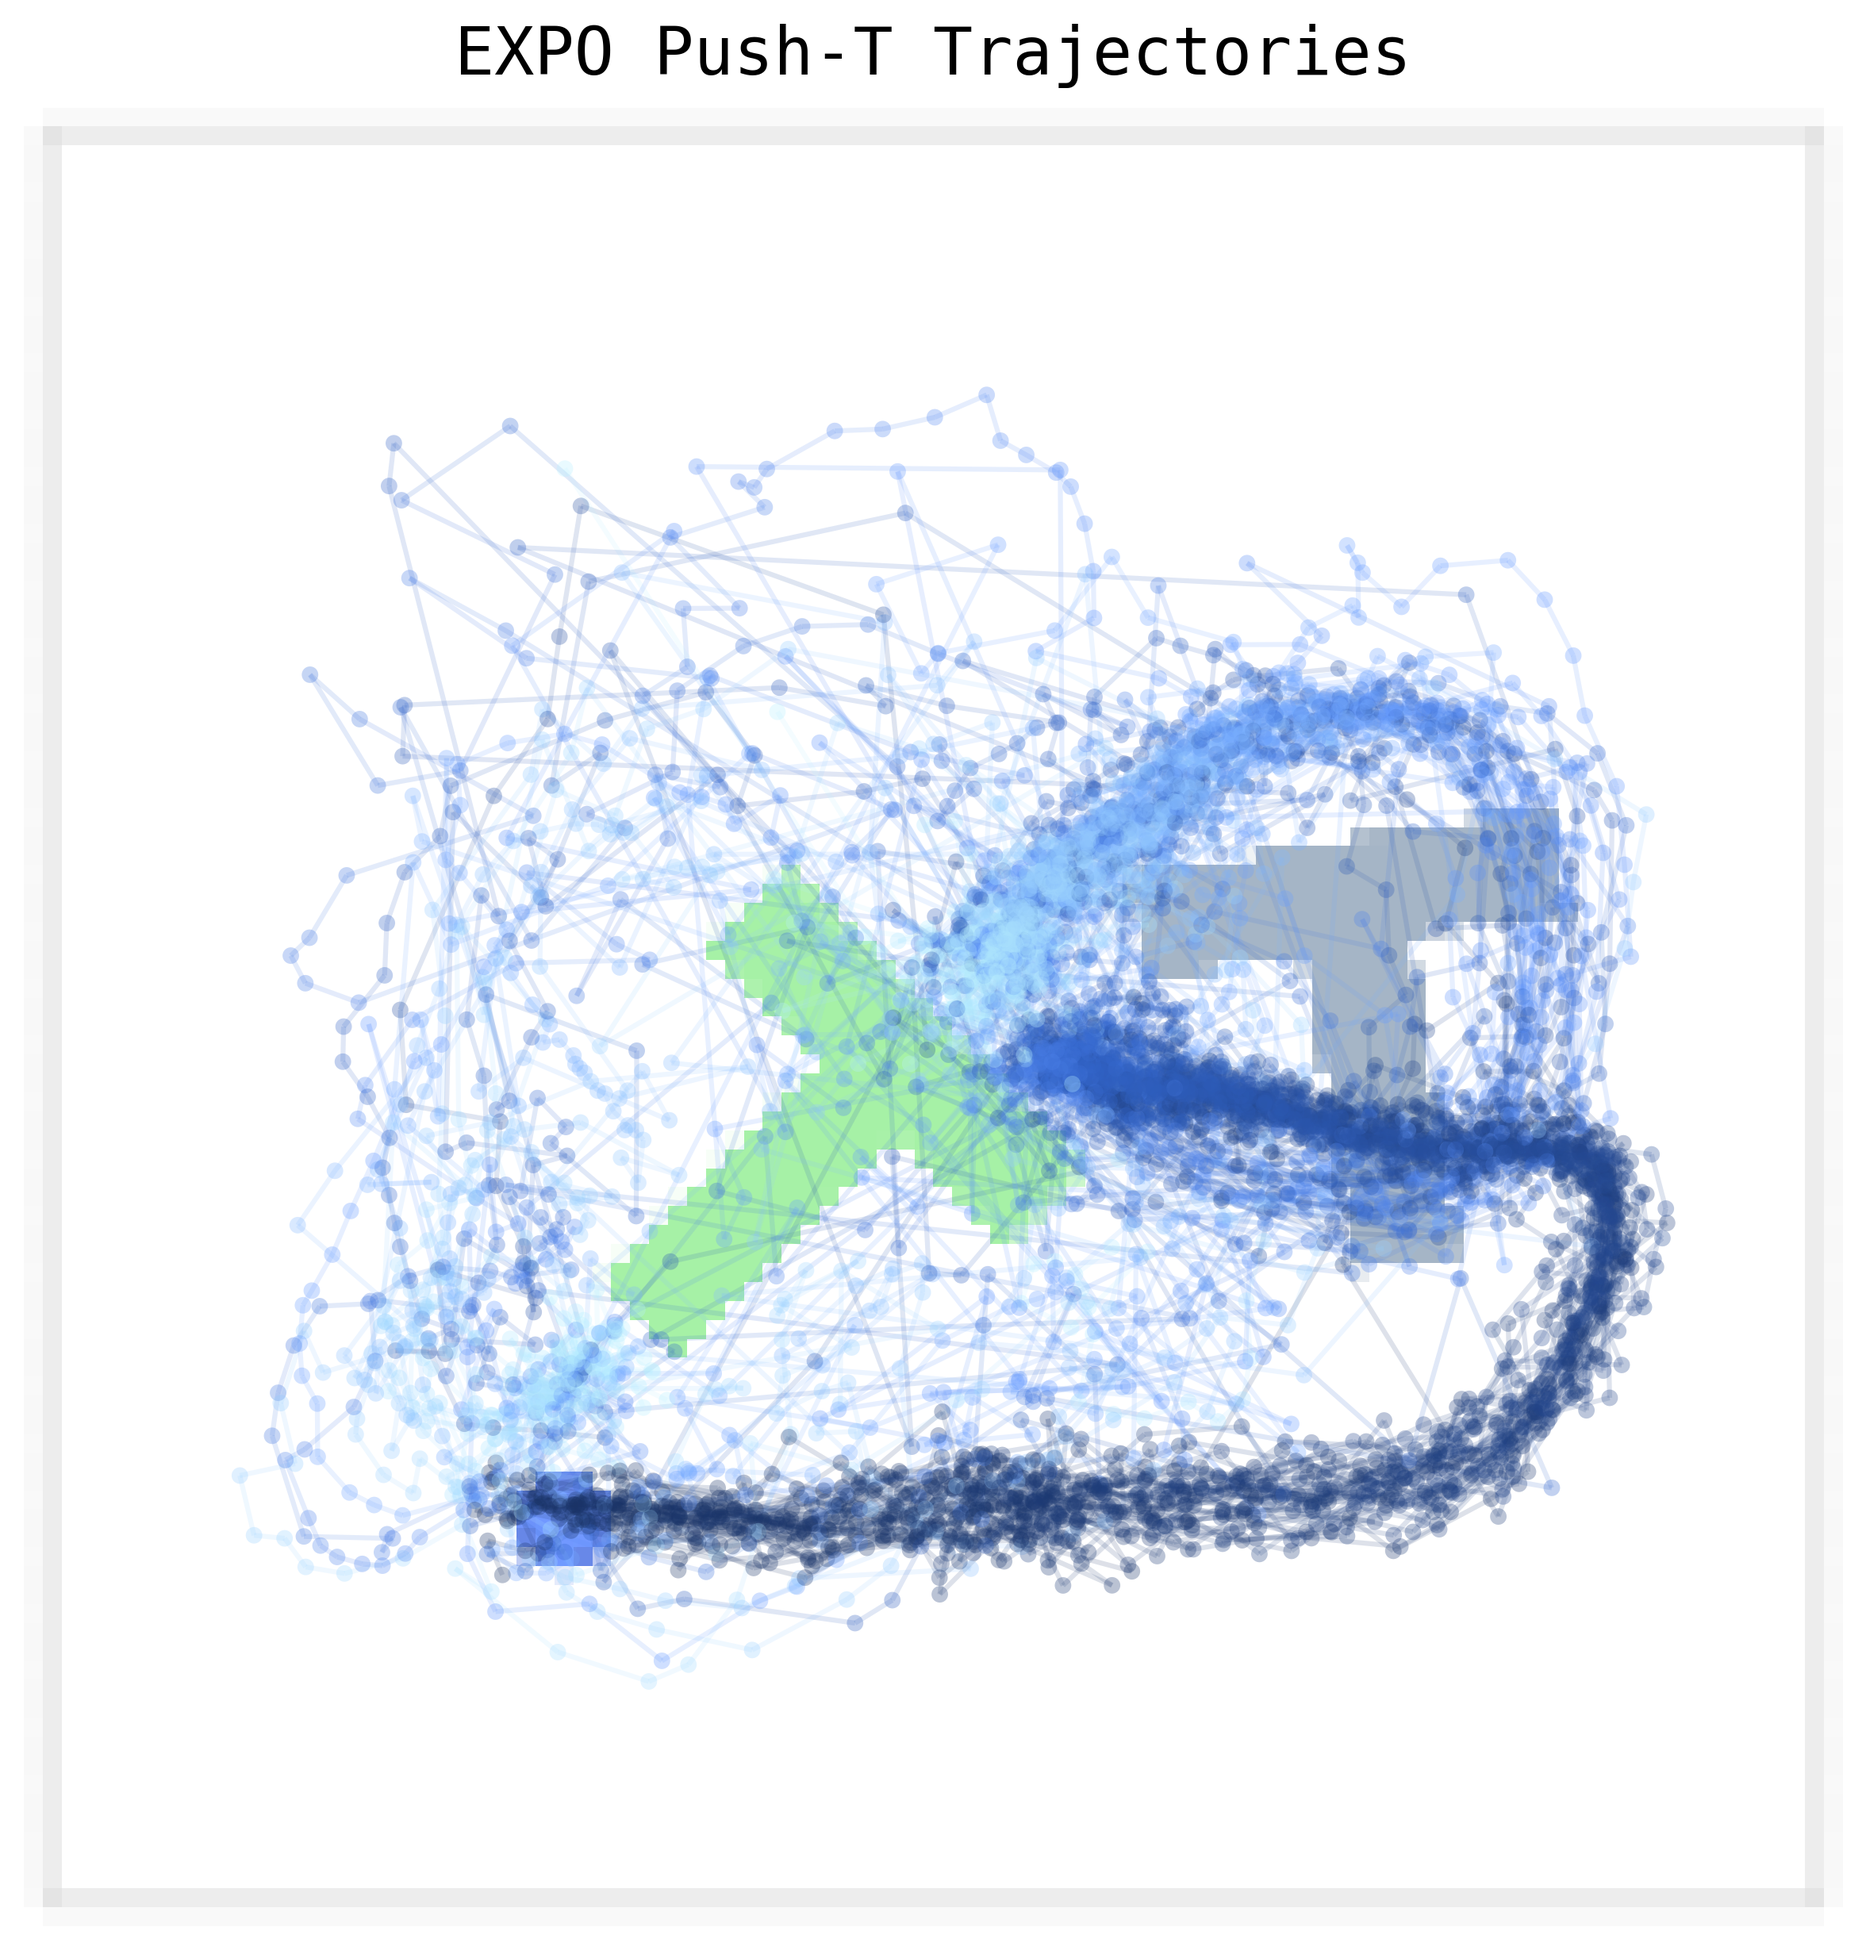
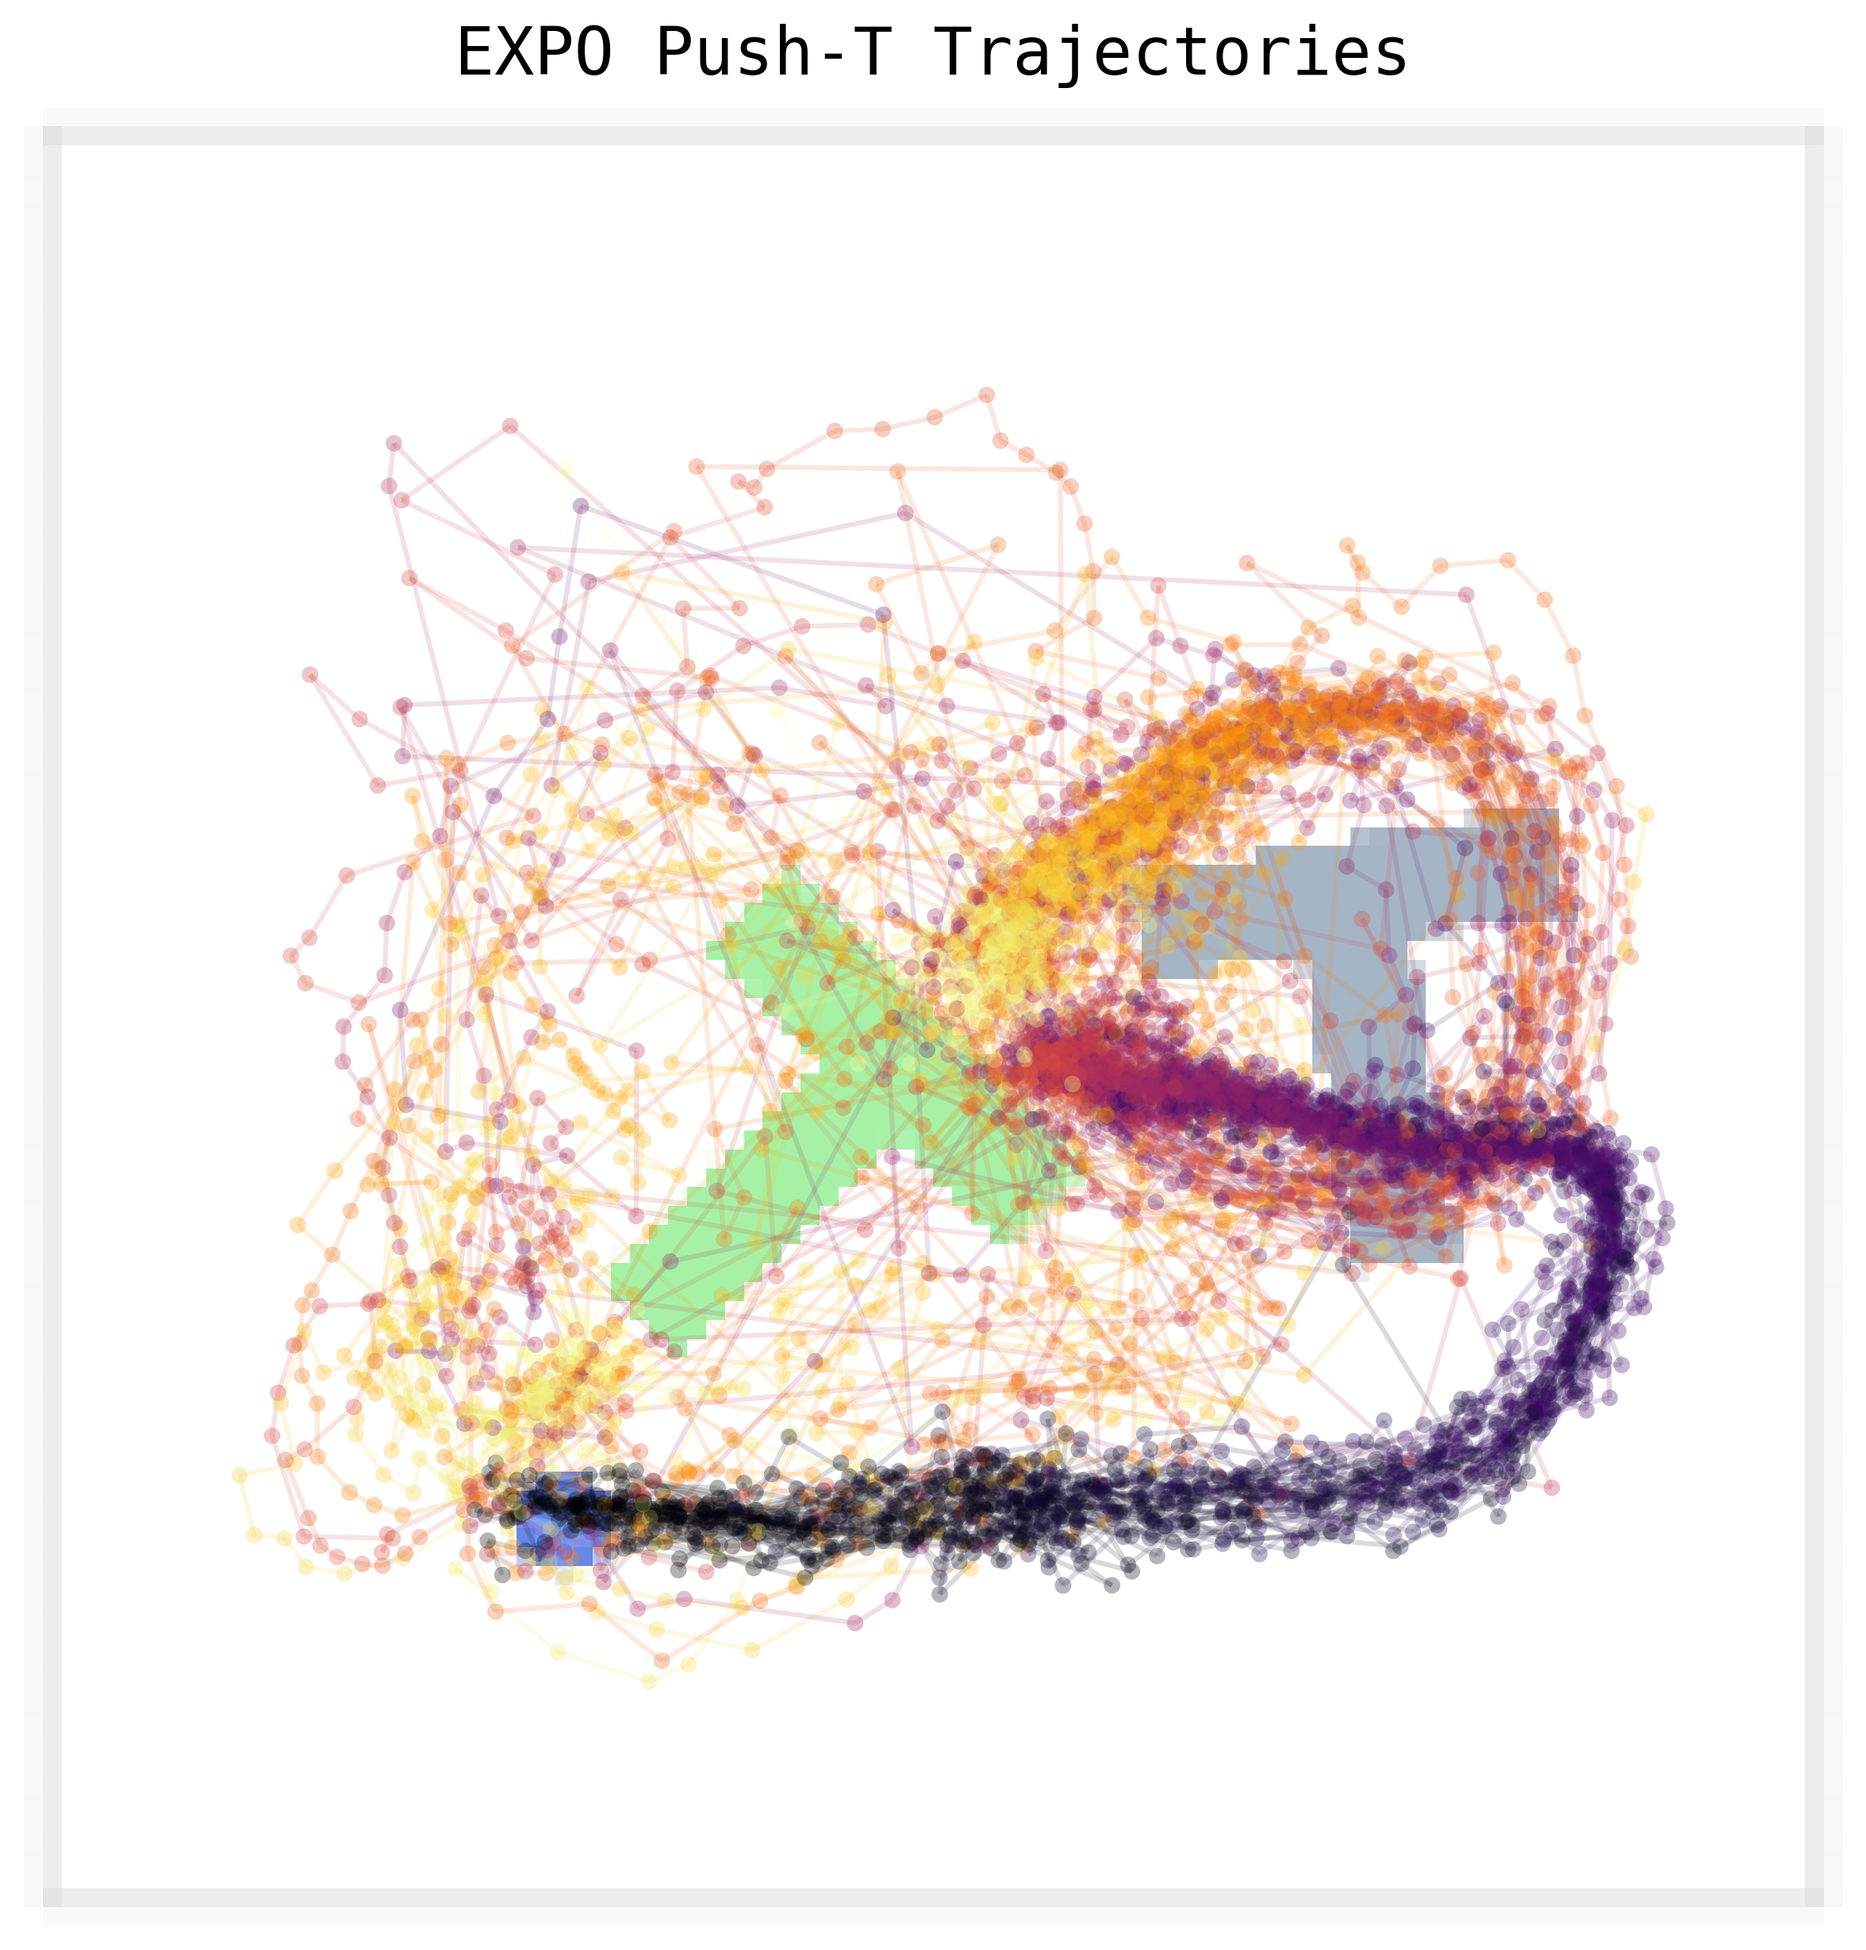
added EXPO plot

diff --git a/pusht_visualization_expo.py b/pusht_visualization_expo.py
@@ -339,8 +339,8 @@ def plot_expo_rollouts(expo_rollouts, env, viz_seed=42, output_path='pusht_expo_
         'lines.linewidth': 2.0,
     })
     
-    # Create custom gradient colormap for EXPO (blue-ish)
-    expo_cmap = create_gradient_colormap('3366CC', 'expo_gradient')
+    # Use inferno colormap for time progression (dark violet -> maroon -> red -> orange -> yellow)
+    time_cmap = plt.get_cmap('inferno')
     
     fig, ax = plt.subplots(1, 1, figsize=(8, 8), dpi=150)
     
@@ -388,9 +388,9 @@ def plot_expo_rollouts(expo_rollouts, env, viz_seed=42, output_path='pusht_expo_
         # Get number of timesteps for this trajectory
         T = len(executed_actions_unnorm)
         
-        # Create color array based on time progression
+        # Create color array based on time progression (0 = dark violet, T-1 = yellow)
         time_indices = np.arange(T)
-        colors = expo_cmap(time_indices / max(T - 1, 1))
+        colors = time_cmap(time_indices / max(T - 1, 1))  # Normalize to [0, 1]
         
         # Plot connecting lines with color gradient
         if T > 1:
